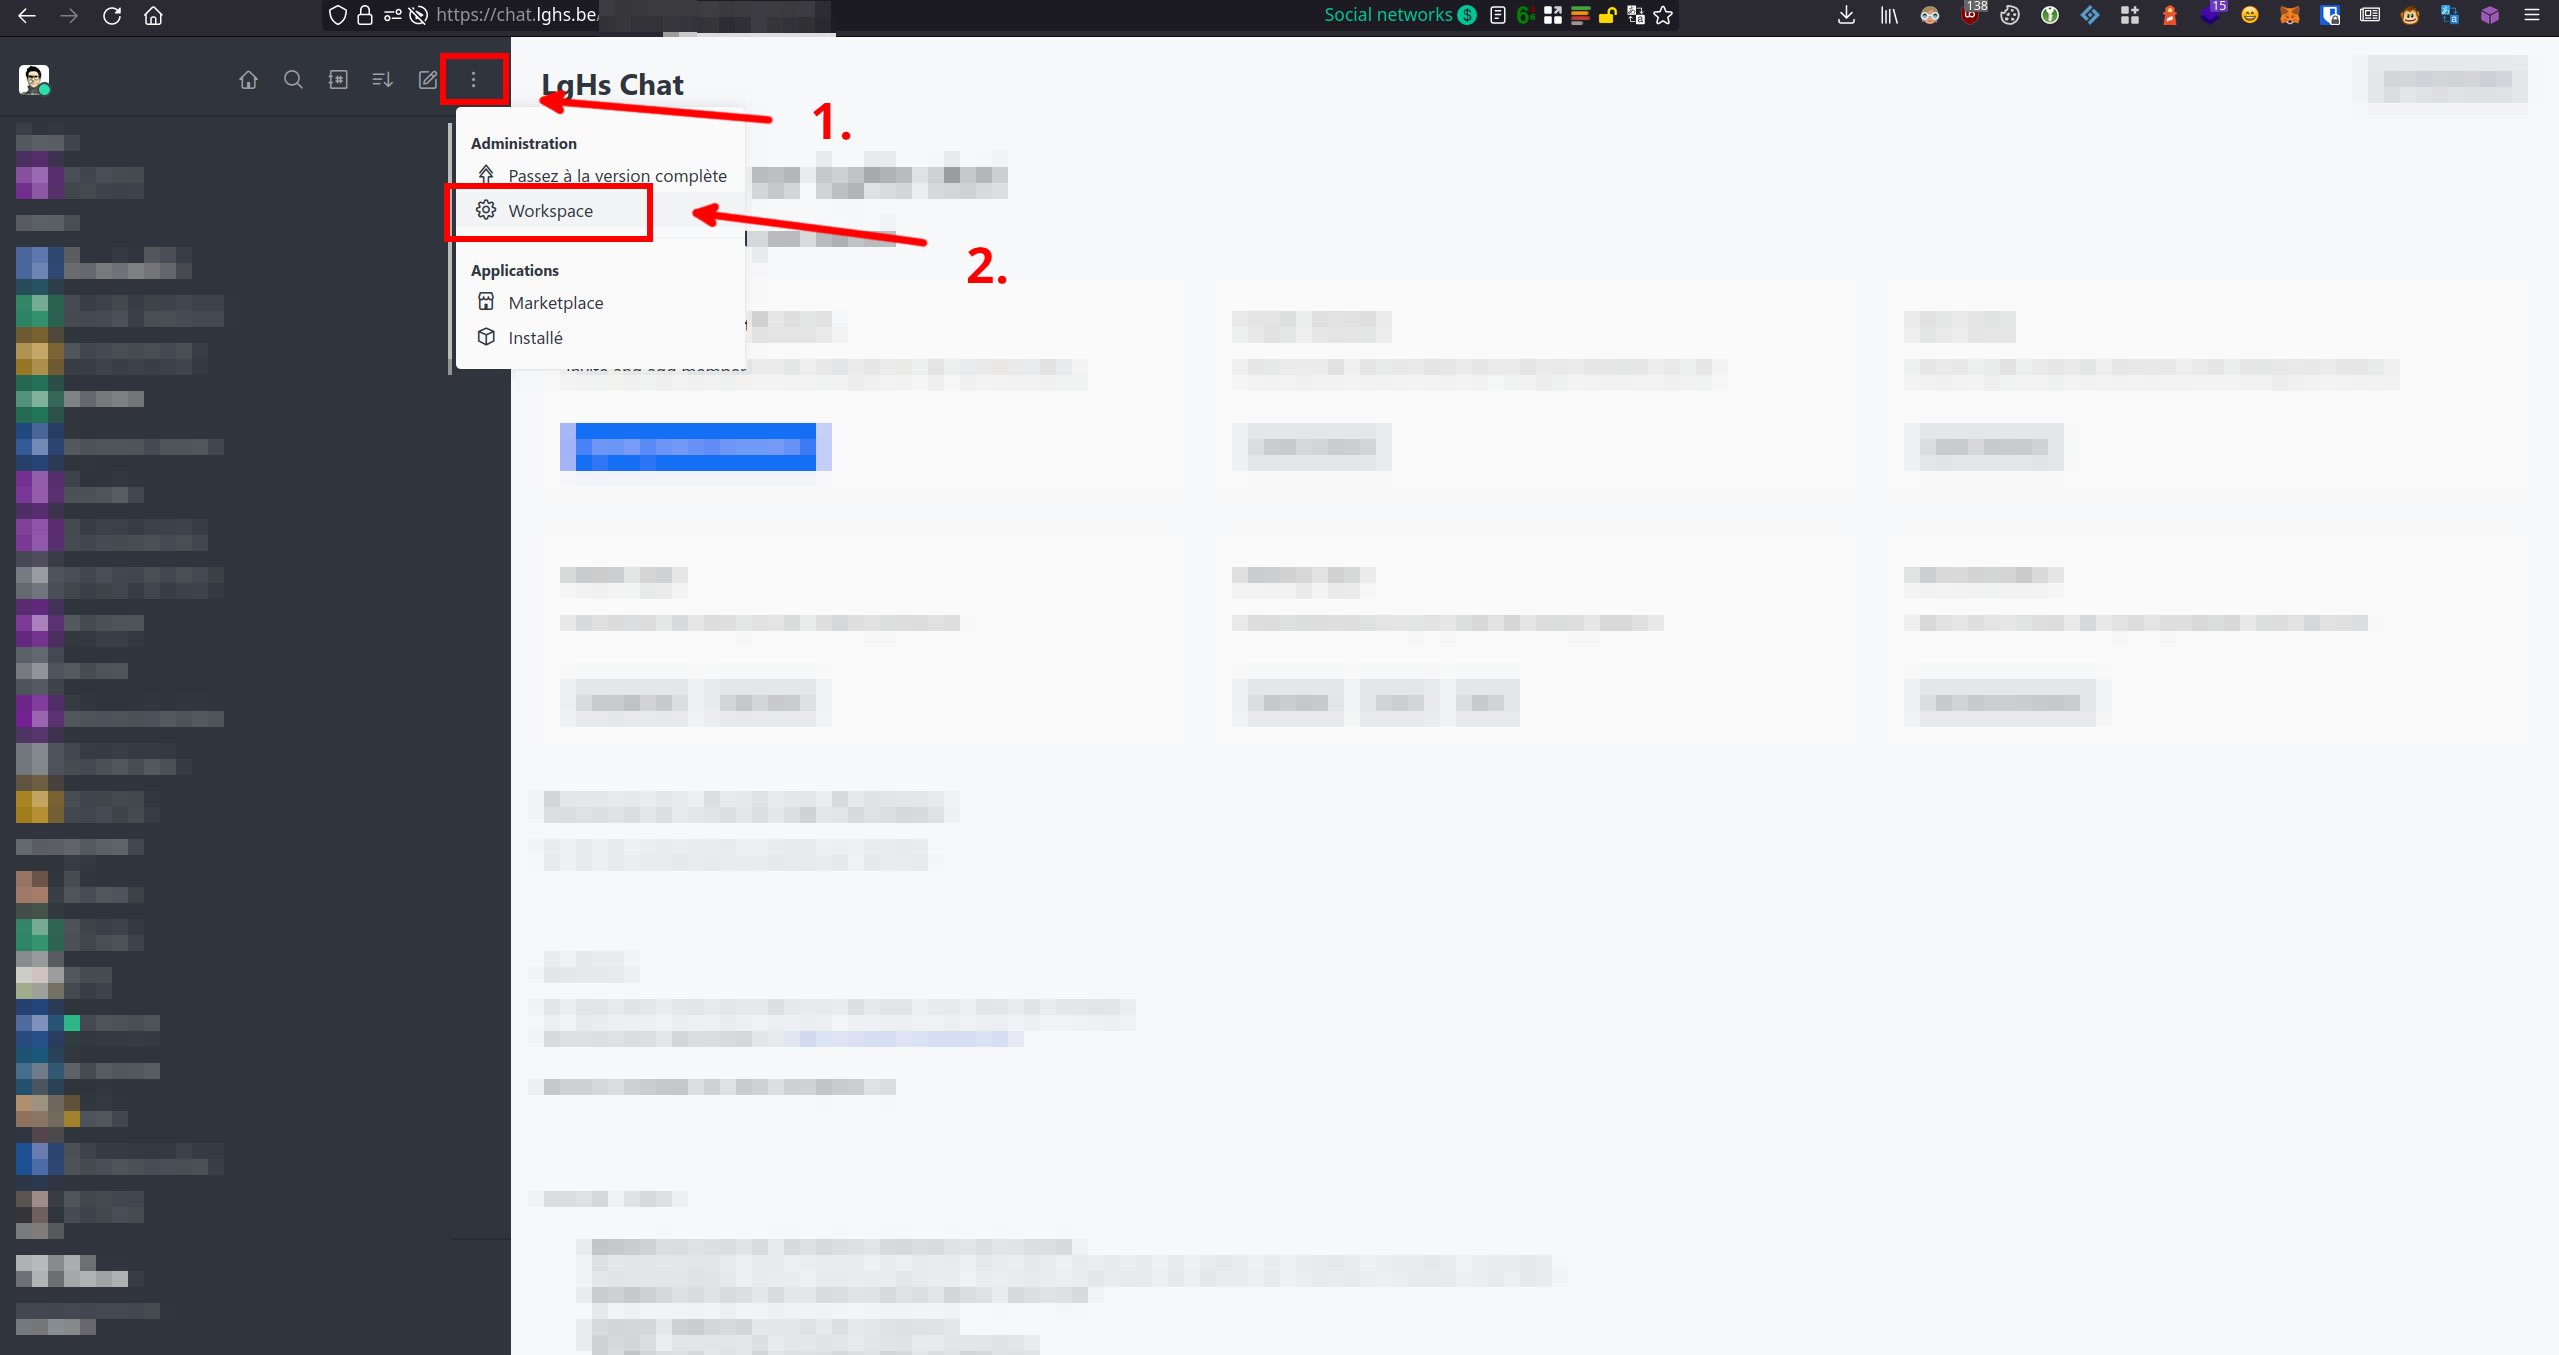
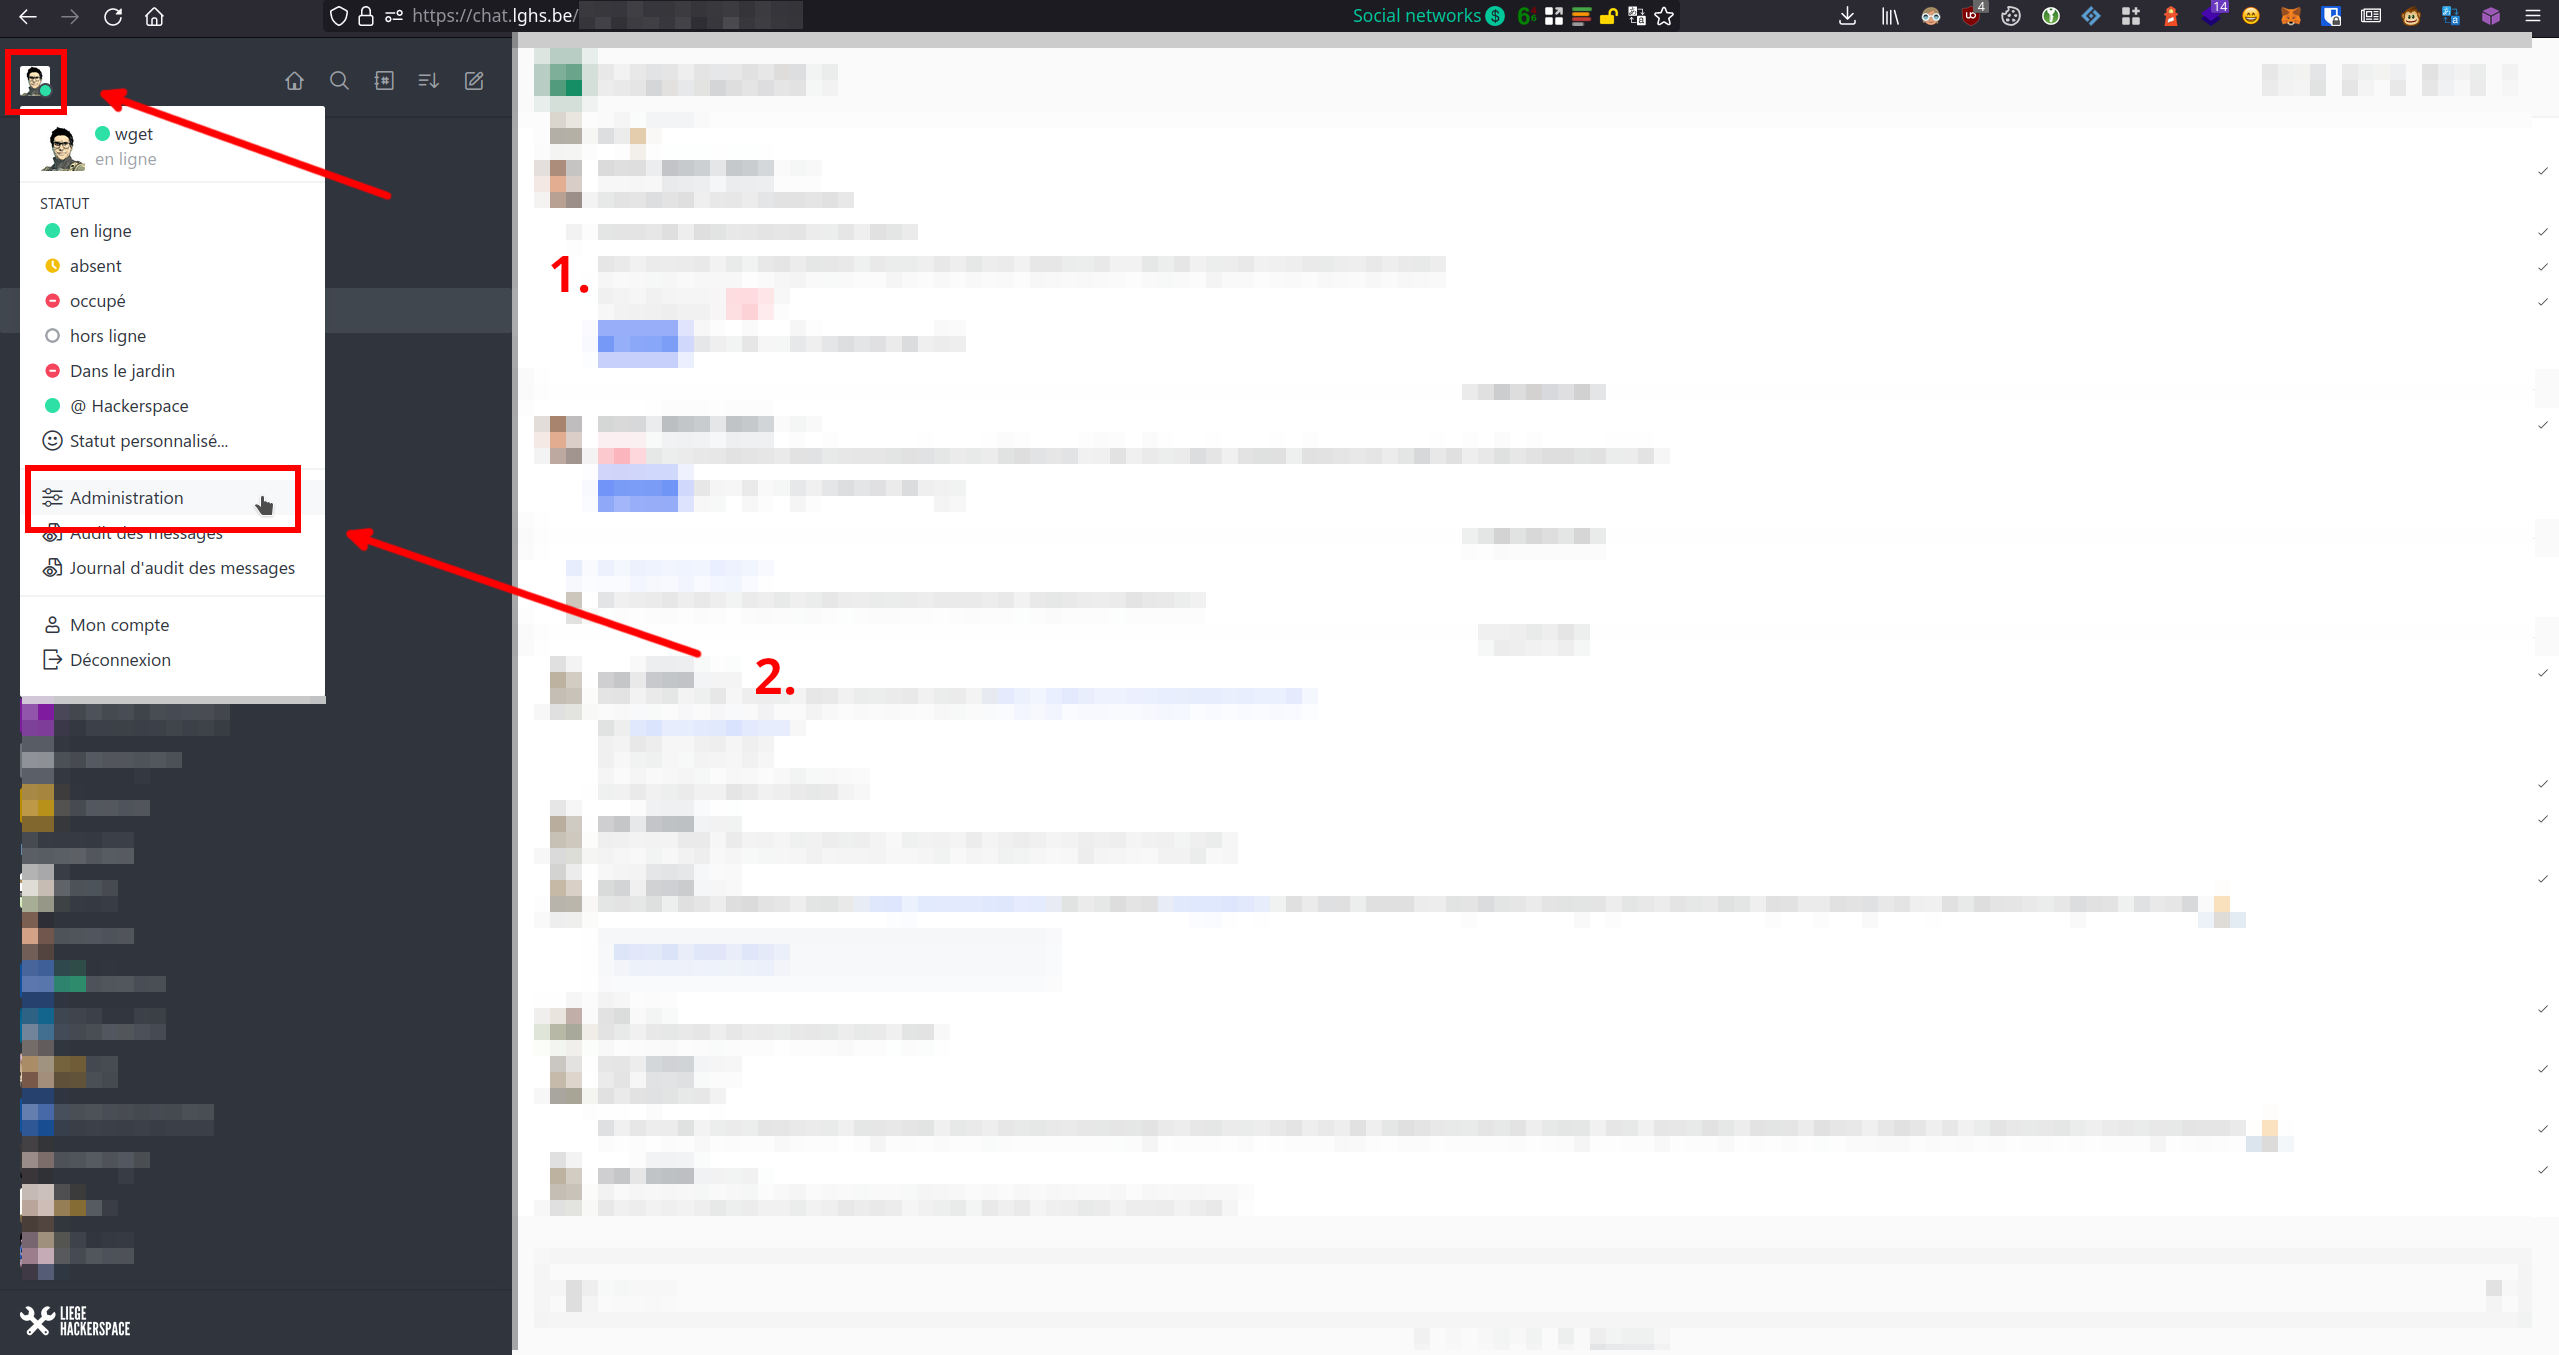
Use correct screenshot for the Rocket.Chat version + typo

diff --git a/docs/doc-rocket-chat.md b/docs/doc-rocket-chat.md
@@ -861,7 +861,7 @@ Une fois les paramètres réinitialisés, il suffit de suivre la méthode expliq
 
    ![](img/doc-rocket-chat-reenable-push-notifications-0002.png)
 
-3. Retournez dans l'instance Rocket.Chat, cliquez sur le menu hamburger et sur le sous-menu `Workspace` :
+3. Retournez dans l'instance Rocket.Chat, cliquez sur l'icône représentant votre photo de profil dans la barre latérale de gauche et cliquez sur le sous-menu `Administration` :
 
    ![](img/doc-rocket-chat-reenable-push-notifications-0003.png)
 
@@ -878,7 +878,7 @@ Une fois les paramètres réinitialisés, il suffit de suivre la méthode expliq
    {"level":50,"time":"2023-01-25T12:51:49.174Z","pid":9,"hostname":"e0c33ac68892","name":"System","msg":"Failed to sync with Rocket.Chat Cloud","err":{"type":"Error","message":"failed [400]","stack":"Error: failed [400]\n    at makeErrorByStatus (server/lib/http/call.ts:59:9)\n    at server/lib/http/call.ts:168:19\n    at /app/bundle/programs/server/npm/node_modules/meteor/promise/node_modules/meteor-promise/fiber_pool.js:43:40","response":{"statusCode":400,"content":"","headers":{"access-control-allow-headers":"Content-Type, Authorization, Content-Length, Last-Event-ID, X-Requested-With","access-control-allow-methods":"GET, PUT, POST, DELETE, OPTIONS","access-control-allow-origin":"*","access-control-expose-headers":"Content-Type, Authorization, Cache-Control, Expires, Pragma, X-powered-by","cache-control":"private, no-cache, no-store, must-revalidate","connection":"close","content-length":"0","date":"Wed, 25 Jan 2023 12:51:49 GMT","expires":"-1","pragma":"no-cache","vary":"Accept-Encoding","x-fleet-version":"-783de2c","x-powered-by":"Rocket Fuel and Rocketeers"},"ok":false,"data":null}},"msg":"failed [400]"}
    ```
 
-6. Retournez sur le site du cloud Rocket (`https://cloud.rocket.chat`). VL'instance devrait désormais être visible. Cliquez sur le bouton `Apply Trial` en regard de l'instance dans la liste pour demander une version d'essai :
+6. Retournez sur le site du cloud Rocket (`https://cloud.rocket.chat`). L'instance devrait désormais être visible. Cliquez sur le bouton `Apply Trial` en regard de l'instance dans la liste pour demander une version d'essai :
 
    ![](img/doc-rocket-chat-reenable-push-notifications-0006.png)
 
